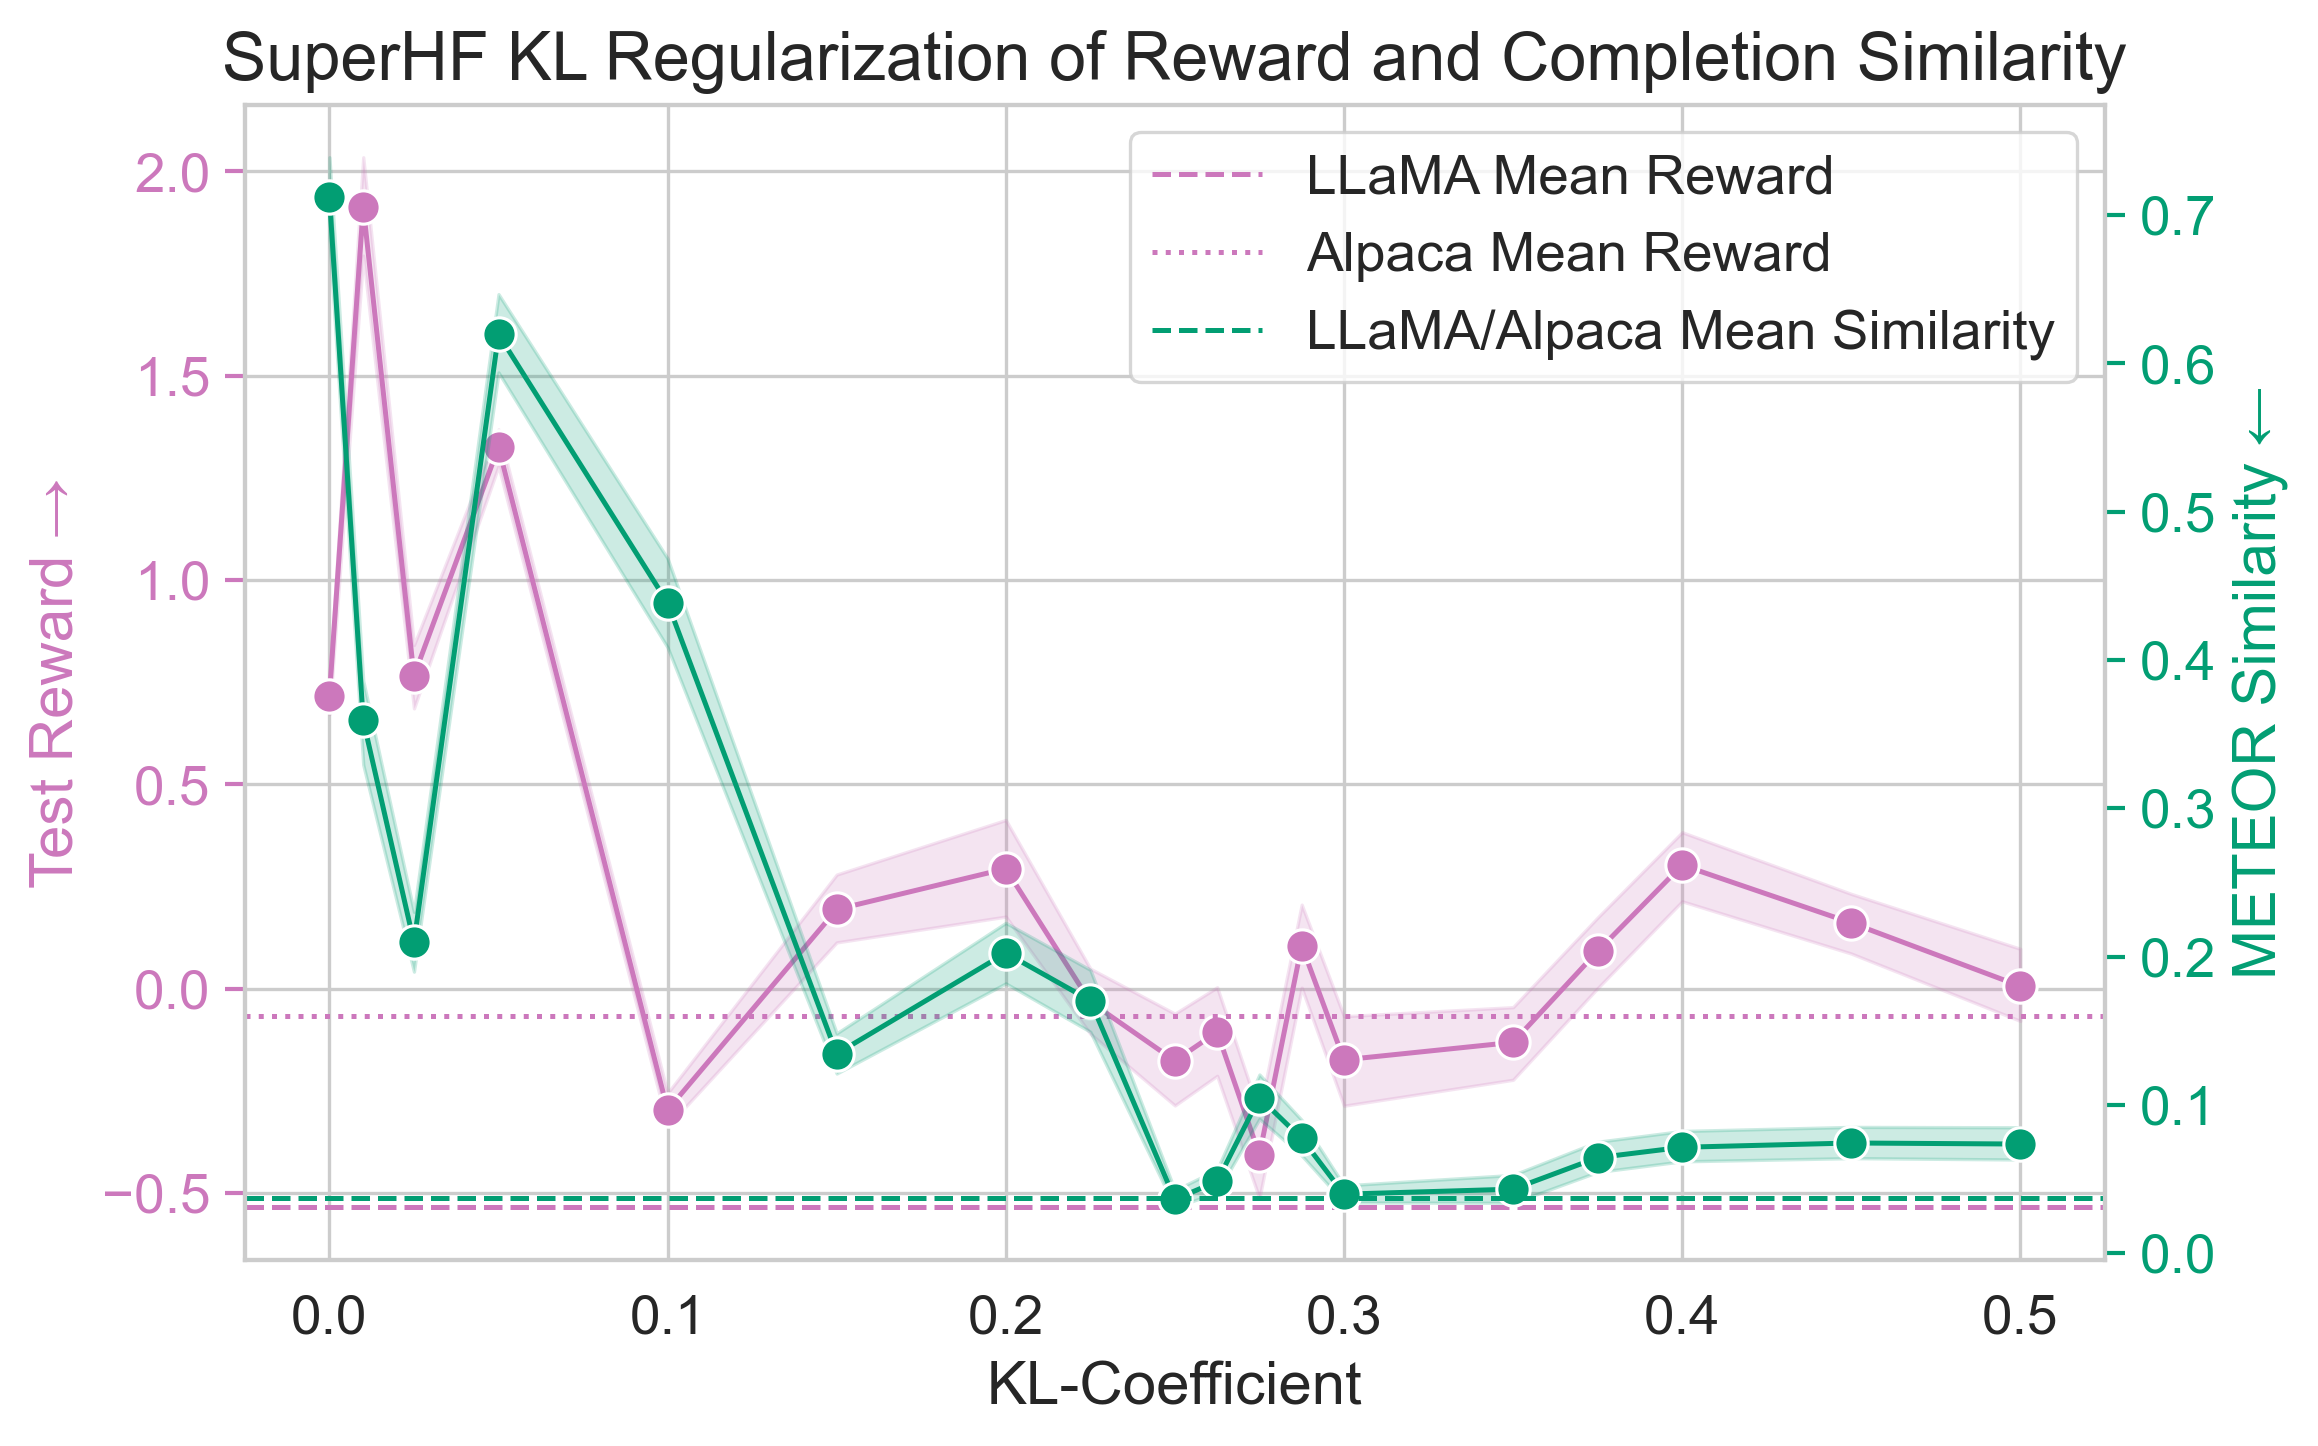
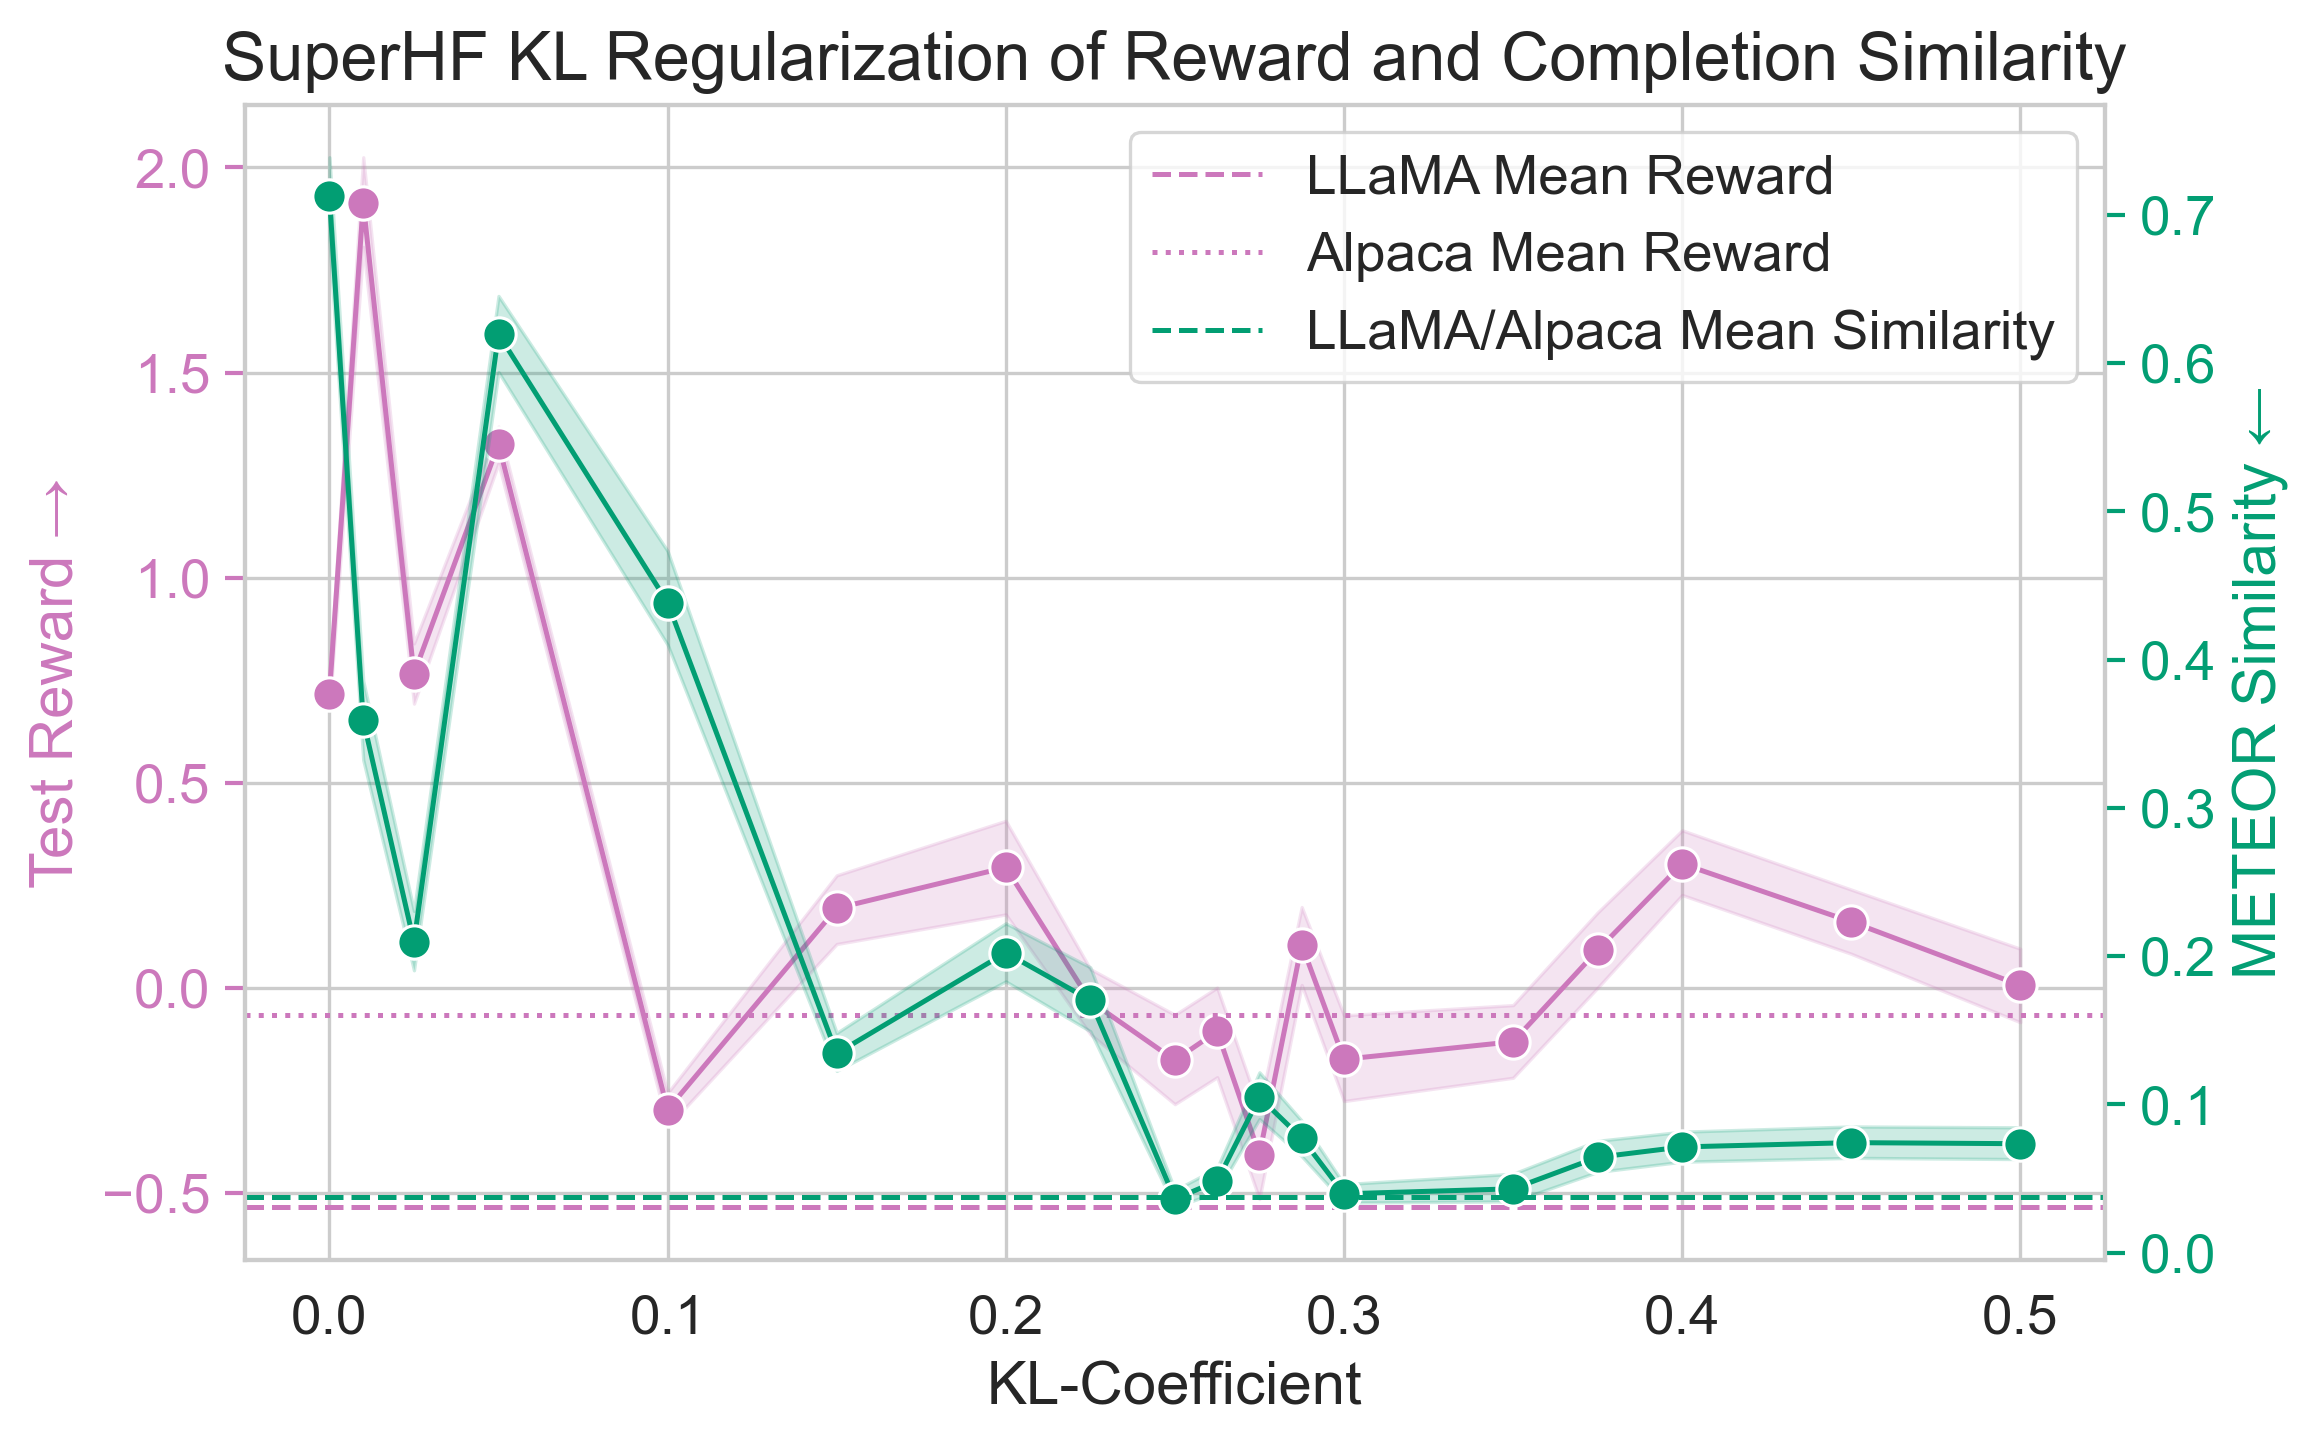
KL instruct graph

diff --git a/charts/kl_meteor_similarity.py b/charts/kl_meteor_similarity.py
@@ -48,7 +48,7 @@ def main() -> None:
     color_similarity = model_type_to_palette_color("ftp")
 
     # Define the model sizes and their corresponding file names
-    model_types_to_test_names = {"SuperHF": "shf-v4-llama-10000-kl-"}
+    model_types_to_test_names = {"SuperHF": "shf-v4-llama-instruct-10k-kl-"}
 
     # Compute LLaMA's and Alpaca's mean reward and similarity
     llama_rewards, llama_meteor_scores = get_rewards_and_similarity("llama-7b.json")
